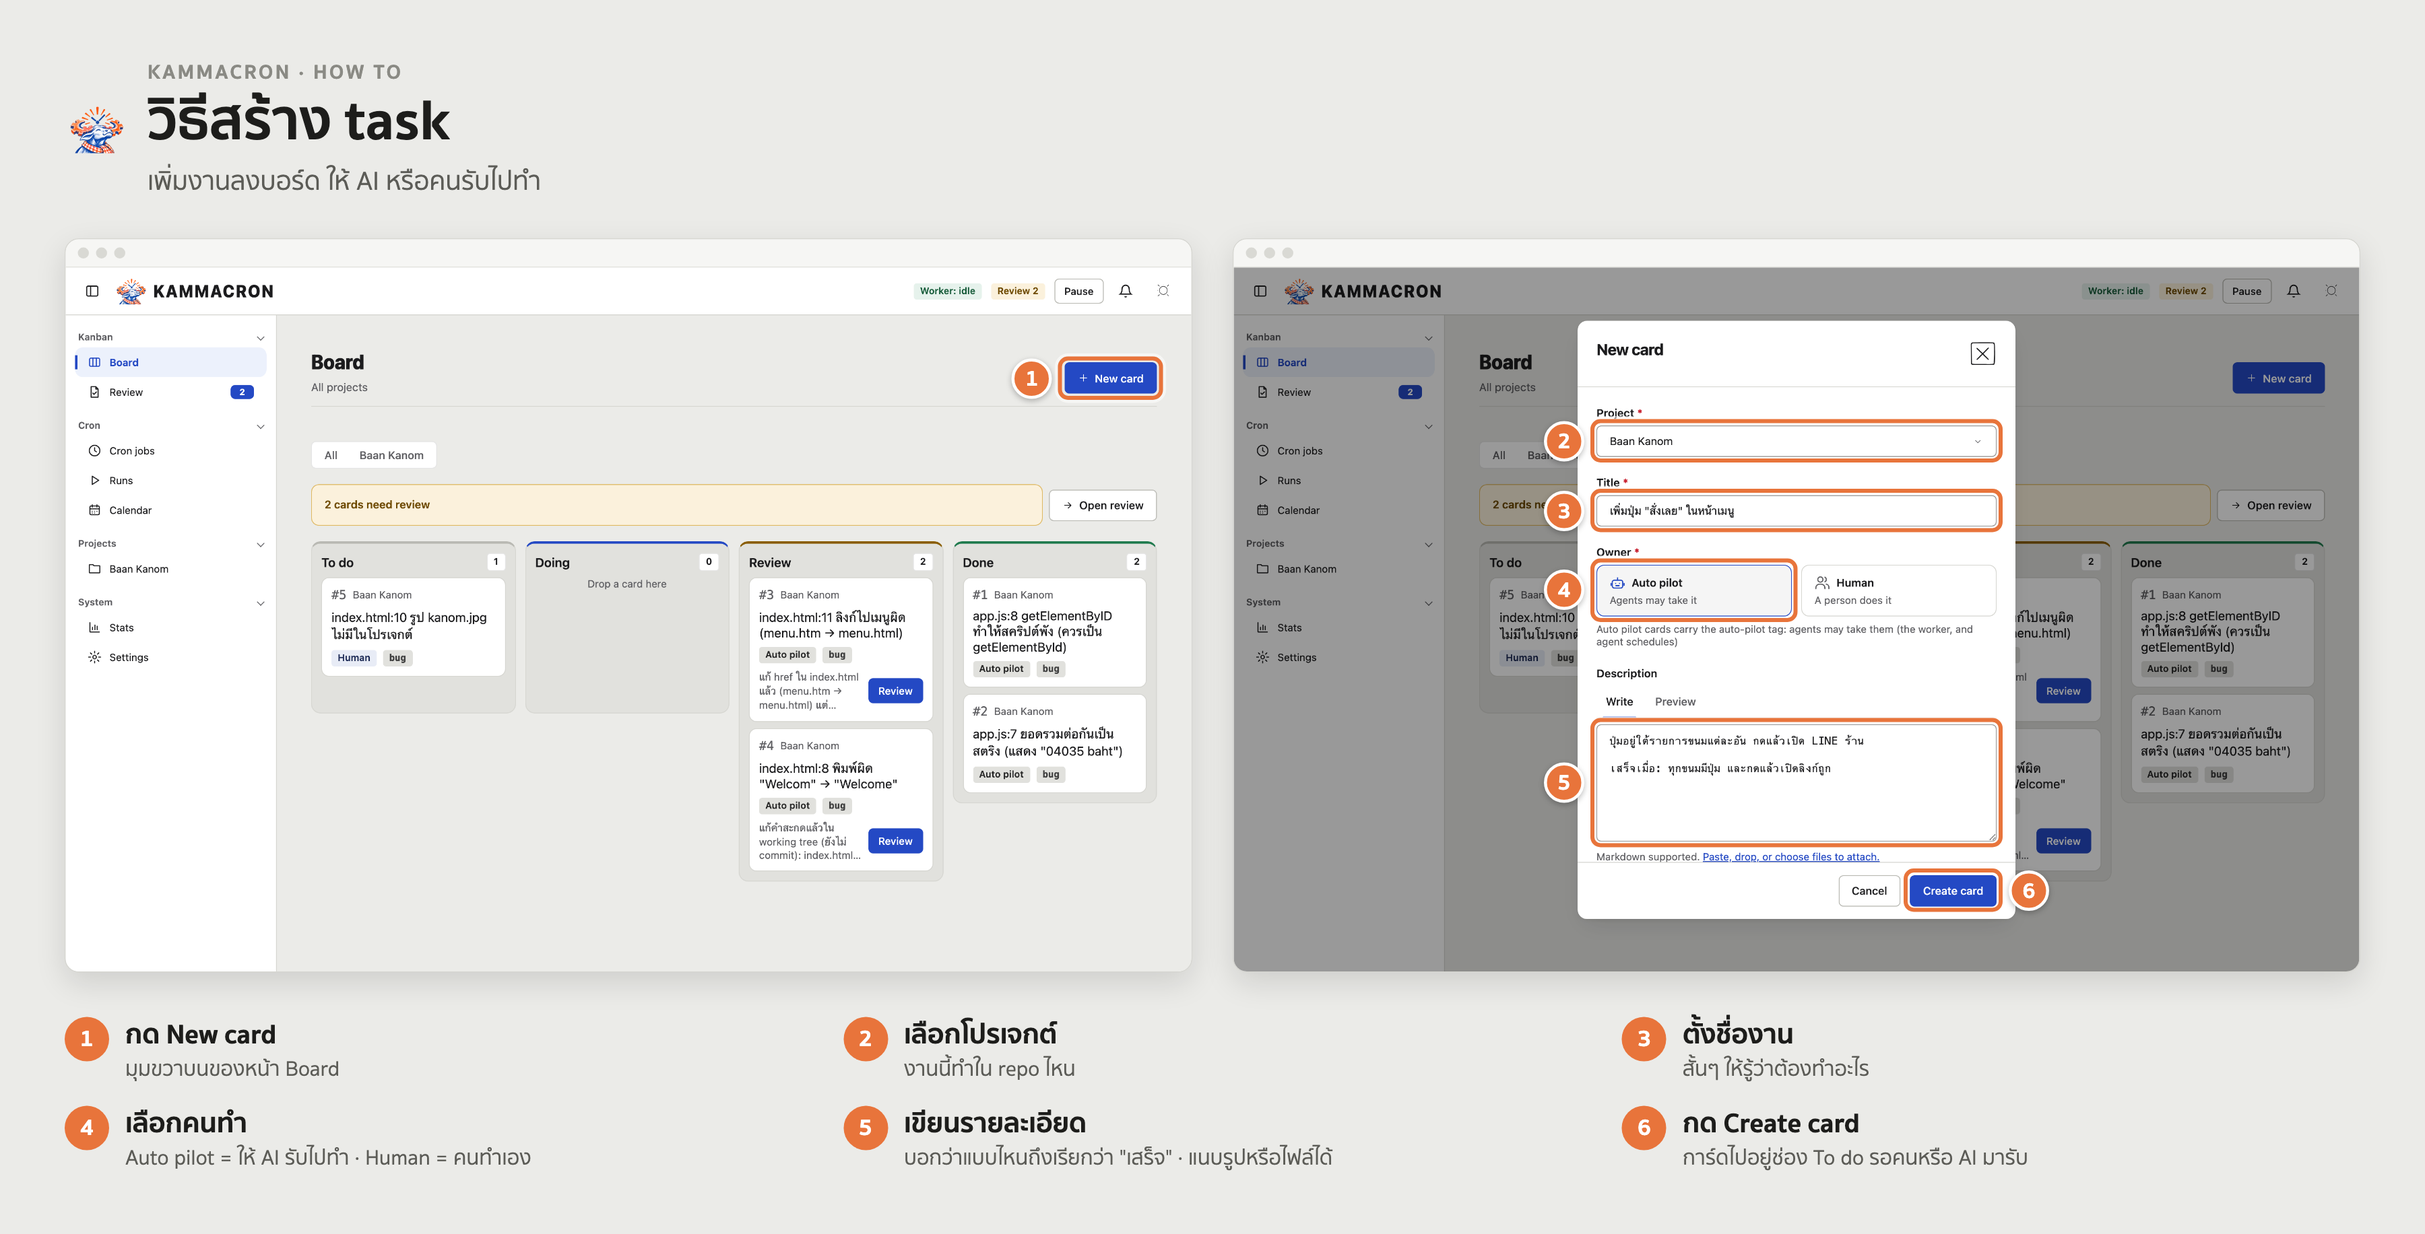
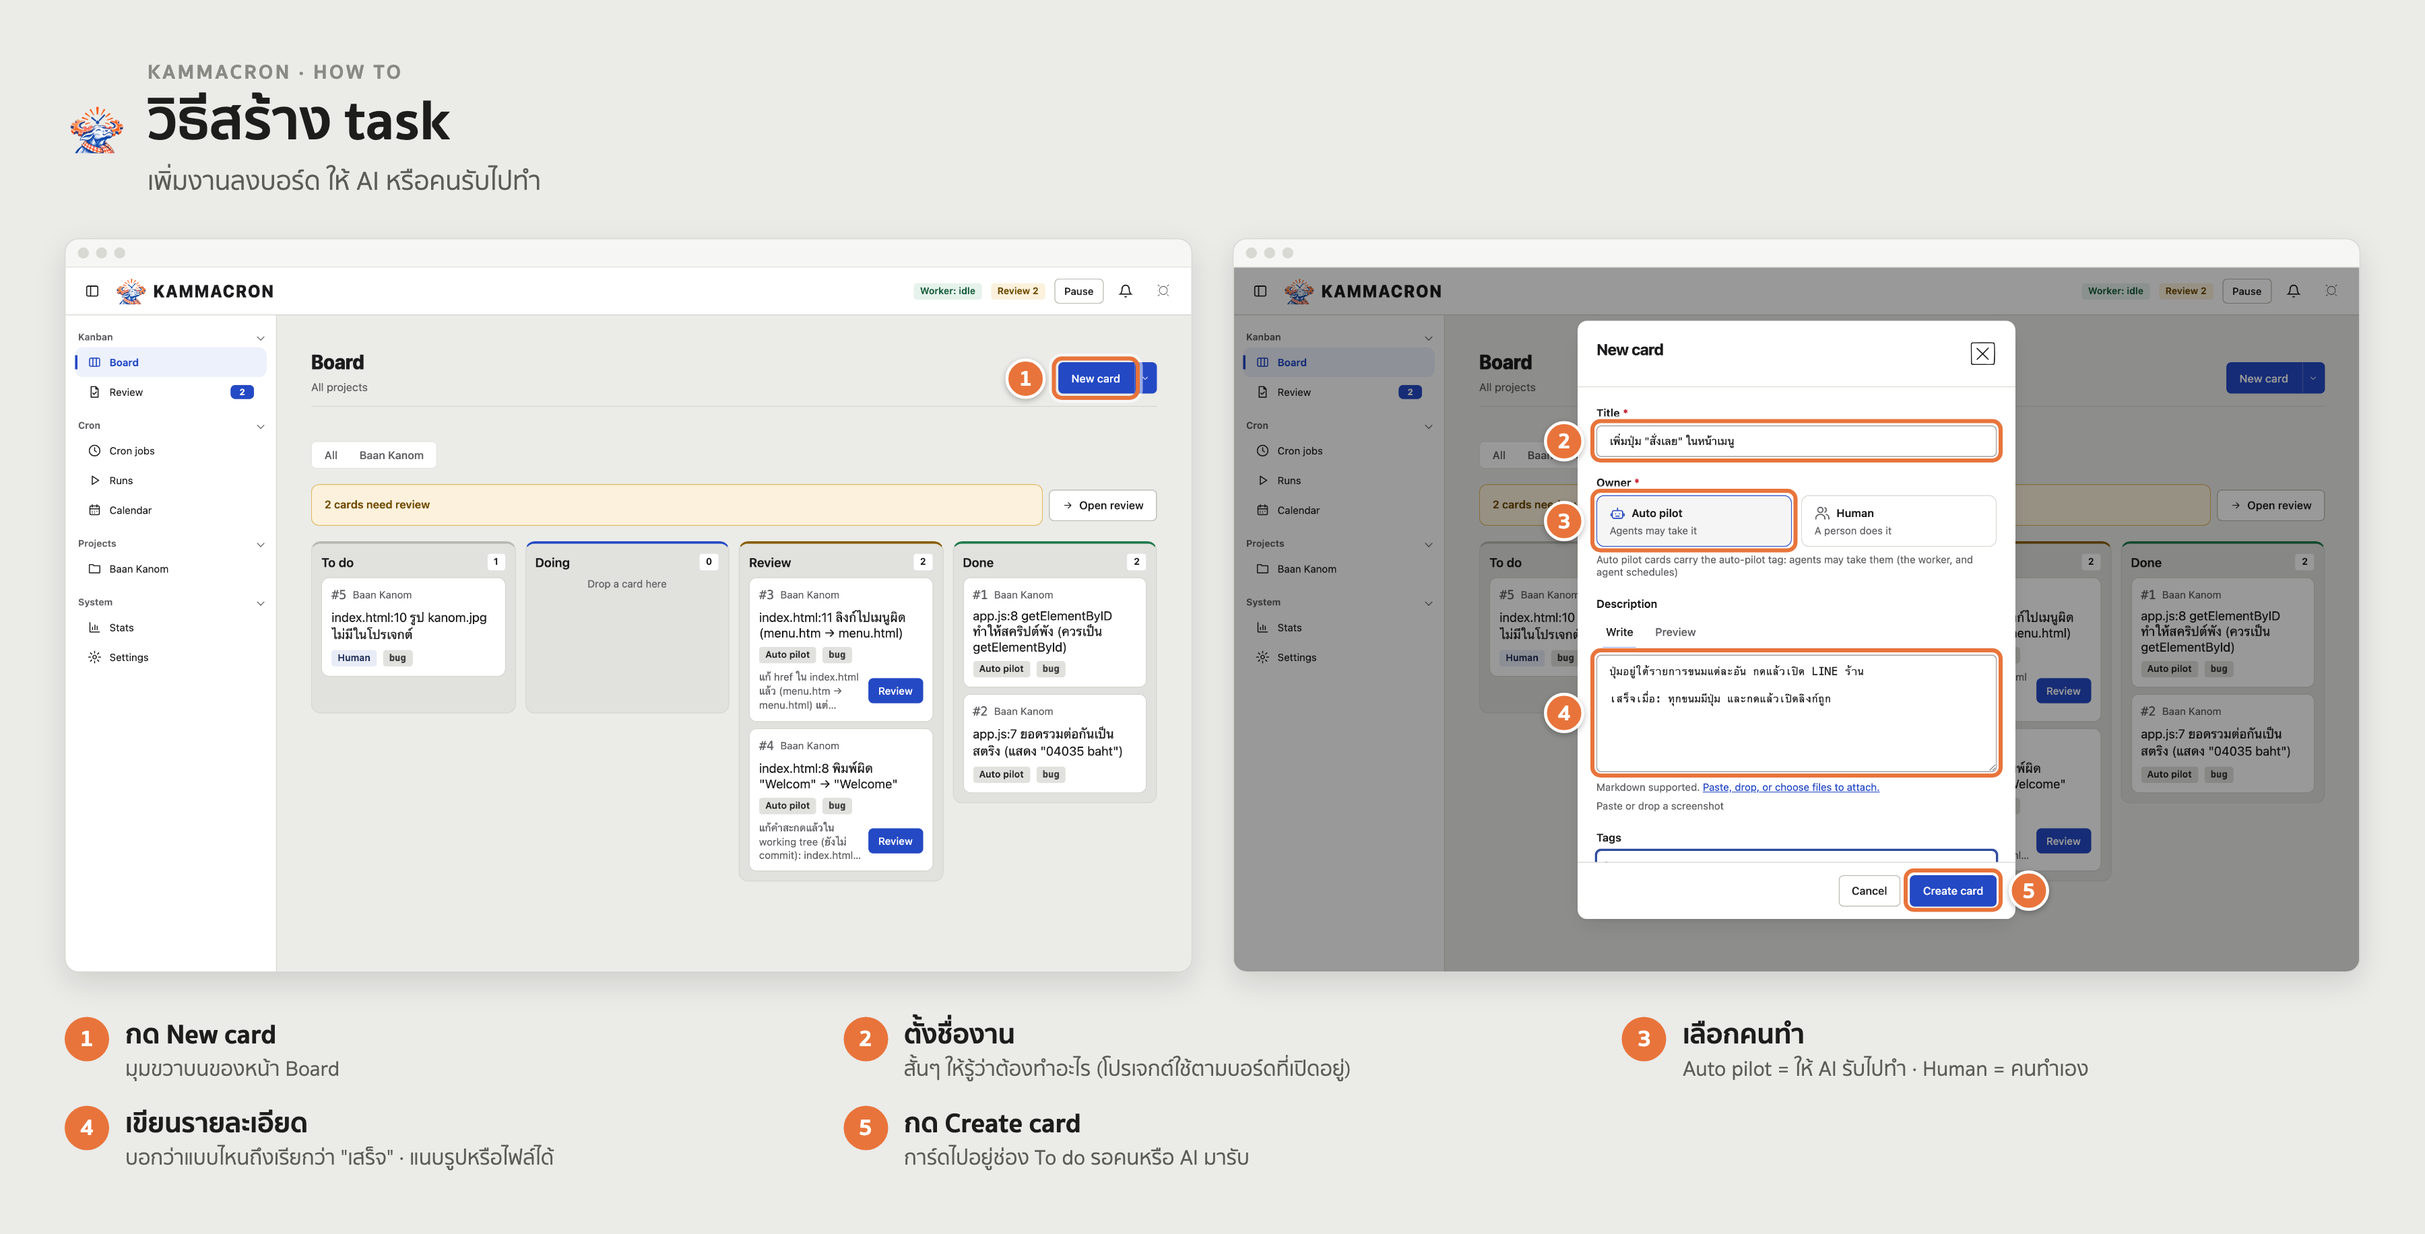
docs: the wizards in the guides, their library gaps, and the demo kit's cron scene
The guides and first steps describe New card ▾, the cron-job and project wizards
and the templates; the task and cron how-to pictures are retaken. LIB_GAP.md gets
four gaps met on baht-workflow and baht-alert, with their workarounds. The demo
video kit adds its cron jobs through the wizard (checked once against the demo
server, without the worker).

Claude-Session: https://claude.ai/code/session_01CUd5zYfdx4nTB7yqQbGrHG

diff --git a/.claude/skills/demo-video/kit/scripts/record.py b/.claude/skills/demo-video/kit/scripts/record.py
@@ -137,40 +137,45 @@ def scroll_bottom(page):
 
 
 def schedule_scene(b, name, job, first):
-    """The Cron jobs page: Claude, the Cron tab, `* * * * *`, a name, a model, the prompt, Add."""
+    """The Cron jobs page: Add cron job, then the wizard's three steps (who, the task, when)."""
     s = Scene(b, name)
     s.go('/cron')
     s.mark('start')
+    s.wait(900)
+    s.click(s.page.get_by_role('button', name='Add cron job'), 900)
+    wizard = s.page.locator('web-cron-wizard')
+    # step 1, What: Claude does it (no template: the prompt is the job's own)
+    s.click(wizard.locator('label', has=s.page.locator('input[value="claude"]')).first, 600)
+    s.click(wizard.get_by_role('button', name='Next'), 700)
+    # step 2, The task: the prompt; Use the Kanban board is on; the model under More options
+    s.mark('prompt')
+    s.type(field(wizard, 'prompt'), job['prompt'], delay=14)
+    s.wait(400)
+    s.move_to(s.page.get_by_text('Use the Kanban board', exact=True))
     s.wait(700)
-    # the "Add a cron job" card in view (the page scrolls inside the shell)
-    s.page.evaluate("""() => {
-      const h = [...document.querySelectorAll('*')].find(e => e.textContent.trim() === 'Add a cron job' && !e.children.length)
-      h.scrollIntoView({ block: 'start', behavior: 'smooth' })
-    }""")
-    s.wait(1100)
+    s.click(wizard.get_by_text('More options: model and agent'), 600)
+    s.click(wizard.locator('label', has=s.page.locator('input[value="haiku"]')).first, 600)
+    s.click(wizard.get_by_role('button', name='Next'), 700)
+    # step 3, When
     if first:
-        # the alarm-clock way, once: Tuesday and Thursday on, Monday off ("Runs on Tue and Thu")
+        # the alarm-clock way, once: Days and time, Tuesday and Thursday ("Runs on Tue and Thu")
+        s.click(schedule_card(s.page, 'date'), 600)
         for day in (2, 4, 1):
             s.click(day_chip(s.page, day), 600)
         s.wait(700)
     # every minute, for the demo (every few minutes stops at 5): the Cron card, typed in
     s.click(schedule_card(s.page, 'cron'), 700)
-    form = s.page.locator('baht-form').last
     s.mark('cron')
     # the five boxes, as a one-time code: empty them, then type; a space moves to the next box
     boxes = s.page.locator('baht-schedule baht-cron input')
     for i in range(5):
         boxes.nth(i).fill('')
     s.type(boxes.first, '* * * * *', delay=90)
-    s.type(field(form, 'name'), job['name'], delay=25)
-    # the Model cards: Haiku
-    s.click(form.locator('label', has=s.page.locator('input[value="haiku"]')).first, 500)
-    s.mark('prompt')
-    s.type(field(form, 'prompt'), job['prompt'], delay=14)
-    s.wait(400)
-    s.move_to(s.page.get_by_text('Use the Kanban board', exact=True))
-    s.wait(900)
-    s.click(s.page.get_by_role('button', name='Add cron job'), 600)
+    # the name the wizard filled in from the prompt, replaced by the job's
+    field(wizard, 'name').fill('')
+    s.type(field(wizard, 'name'), job['name'], delay=25)
+    s.wait(500)
+    s.click(wizard.get_by_role('button', name='Add cron job'), 600)
     s.mark('added')
     s.wait(1800)
     s.done()

diff --git a/apps/docs/src/content/docs/guides/schedules.md b/apps/docs/src/content/docs/guides/schedules.md
@@ -5,9 +5,15 @@ description: Claude or Codex with your own prompt, commands and playbooks on a t
 
 ## Cron jobs
 
-A cron job (a schedule) runs in the project's directory as it is, on its own time: the project's worker switch does not have to be on, only a directory set and the project not paused. Add one on the **Cron jobs** page (in the navigator, under Cron; with more than one project, pick it with the tabs at the top), or in a project's settings under **Schedules**. Pick what it **runs** and **when** on the cards at the top of the form, give it a name, and fill in the fields that appear.
+A cron job (a schedule) runs in the project's directory as it is, on its own time: the project's worker switch does not have to be on, only a directory set and the project not paused. Add one with **Add cron job** on the **Cron jobs** page (in the navigator, under Cron; with more than one project, pick it with the tabs at the top), with **New card ▾ → New cron job** on the board, or in a project's settings under **Schedules**. It takes three short steps:
 
-![How to add a cron job, in eight numbered steps: open Cron jobs, check the usage limits, pick what it runs, pick when, name it, pick the model, write the prompt, Add cron job](../../../assets/howto/2-cron.png)
+1. **What**: the project (asked only on the board's all-projects view), a template to start from, and **who does it**: Claude, Codex, a command or a playbook.
+2. **The task**: the prompt (with **Use the Kanban board**), the command, or the playbook. Claude's agent and the model are folded under **More options**; left folded, the agent's own defaults apply.
+3. **When**: the time, and a name, filled in from the template or the prompt's first line.
+
+The templates fill in a prompt and a time you can change on the next steps: **Find bugs every morning** (weekdays at 09:00, files a card for each bug and fixes nothing), **Fix cards one at a time** (every 30 minutes, takes one auto-pilot card), and **Update dependencies weekly** (Mondays at 10:00). **Start blank** leaves it to you.
+
+![How to add a cron job, in eight numbered steps: New card ▾ then New cron job, pick a template, pick who does it, check the prompt, the model under More options, pick when, the name, Add cron job](../../../assets/howto/2-cron.png)
 
 ### When
 
@@ -37,7 +43,7 @@ For example, tag cards `auto-pilot`, and add a cron job: **Codex**, **Hourly**, 
 
 The **Claude** and **Codex** cards show only when this machine has that CLI (on the worker's PATH, or `KAMMACRON_CLAUDE_BIN` / `KAMMACRON_CODEX_BIN`).
 
-**Agent** (Claude). When the project can call on Claude Code agents, pick one, and Claude runs as it: its instructions, its tools and its model, with your prompt as the task. kammacron finds them where Claude Code keeps them:
+**Agent** (Claude, under **More options**). When the project can call on Claude Code agents, pick one, and Claude runs as it: its instructions, its tools and its model, with your prompt as the task. kammacron finds them where Claude Code keeps them:
 
 | Where                                   | Shows as          |
 | --------------------------------------- | ----------------- |
@@ -47,7 +53,7 @@ The **Claude** and **Codex** cards show only when this machine has that CLI (on 
 
 A project's agent wins over one of yours with the same name. kammacron reads the agent's file each time and hands it to Claude (`--agents`, `--agent`), since Claude runs without the project's settings. An agent that names its `tools` keeps kammacron's MCP tools, so it can still reach the board. If the agent's file is gone when the job runs, the run fails and says so.
 
-**Model.** **Default** leaves it to the agent: Claude takes the agent's `model`, else the project's, else Claude Code's; Codex takes its own. Claude's list is the aliases for the newest of each family (Fable, Opus, Sonnet, Haiku); Codex's is what Codex lists for your account (read from `~/.codex/models_cache.json`, so it appears once Codex has run here). **Other…** takes any model's full name.
+**Model** (under **More options**). **Default** leaves it to the agent: Claude takes the agent's `model`, else the project's, else Claude Code's; Codex takes its own. Claude's list is the aliases for the newest of each family (Fable, Opus, Sonnet, Haiku); Codex's is what Codex lists for your account (read from `~/.codex/models_cache.json`, so it appears once Codex has run here). **Other…** takes any model's full name.
 
 **A command**, such as a health check (`curl -fsS --max-time 10 https://example.com/health`), tests or a backup. It passes on exit 0. When it fails, kammacron opens a card titled `<name> fails` with the output in a comment, and notifies you once (desktop or webhook; the output is not sent). While that card is open, later failures add a comment to it instead of opening another. The card is yours; to have agents work it, set the job's **Tags of that card** to `auto-pilot`. An agent reads the output as data, not as its task.
 

diff --git a/LIB_GAP.md b/LIB_GAP.md
@@ -1,10 +1,77 @@
 # Library gaps
 
 Verified against the published `@20baht/ui` and `@20baht/angular` **0.3.38**, with
-`@20baht/element` **0.1.1**, on 2026-11-27. Two gaps are open (a field type of the app's own
-cannot be named through `@20baht/ui`, and draws its own label; short segmented-nav items squeezed
-by a long one); the eleven after them are resolved, four of them in 0.3.38 (a `schedule` field
+`@20baht/element` **0.1.1**, on 2026-11-27. Six gaps are open: four met building the cron-job and
+project wizards on `<baht-workflow>` (a step's label is its rule key, a new definition starts the
+run over, starting data without a field is dropped, an alert has no place for an action), a field
+type of the app's own cannot be named through `@20baht/ui` and draws its own label, and short
+segmented-nav items are squeezed by a long one. The eleven after them are resolved, four of them in 0.3.38 (a `schedule` field
 type, `baht-cron`, the app shell's fold button, `clock` and `bot` icons).
+
+## Open: a workflow step's label is also the key its rules and data use
+
+Affected: `WorkflowDefinition`, `<baht-workflow>` (`show-steps`); owner: `@20baht/engine` /
+`@20baht/ui`.
+
+**What happens.** A step shows its `form_name` in the steps strip, and the same `form_name` is
+what a rule's `field: 'Form.key'` and the run's data (`{ [form_name]: {…} }`) are keyed by. A
+translated step label ("What", "เลือกงาน") therefore becomes the key: every rule, every read of
+the data and every test changes with the locale.
+
+**Fix wanted.** A display label of its own on `WorkflowForm` (`label`, falling back to
+`form_name`), so `form_name` can stay a stable key such as `what`.
+
+**Workaround.** `apps/web/src/app/shared/cron-wizard.ts` and `project-wizard.ts` build the forms,
+the rules and the reads of the data from the same `cronSteps(t)` / `projectSteps(t)` names, so they
+always agree in one locale; the specs use the English names.
+
+## Open: a new workflow definition starts the run over
+
+Affected: `<baht-workflow>` (`workflow` property); owner: `@20baht/ui`.
+
+**What happens.** Setting `workflow` resets the run to its first step and its starting data. A
+wizard whose choices depend on an earlier answer has to change a field's options mid-run: the
+cron-job wizard's Model and Agent cards come from the project picked on step 1
+(`GET /projects/:id/agents`). There is no way to change one field's options without a new
+definition, and a new definition loses what was typed. Angular also hands the element a new
+definition whenever a live list sends a new array of the same projects.
+
+**Fix wanted.** Keep the run (data, step, history) when a new definition still has its current
+step, as `restore()` does; or let a field's options change on their own (as `options_from` does for
+a dropdown, for radio cards too).
+
+**Workaround.** `CronWizardComponent` keeps `getState()` before it reads the other project's
+options and calls `restore()` once the new definition is in (`afterRenderEffect`); its definition
+`computed` compares by content (`equal: JSON.stringify`), so a live list's new arrays do not start
+the run over.
+
+## Open: a workflow drops starting data that no field has
+
+Affected: `<baht-workflow>` (`value`, `getData()`, `baht-submit`); owner: `@20baht/ui`.
+
+**What happens.** Data given in `value` for a key that no field of the form has (the project a job
+is for, when there is only one and no Project field is shown) is not in `getData()` or in the
+submitted data. There is no `hidden` field type to carry it.
+
+**Fix wanted.** Keep such keys in the run's data, or a `hidden` field type (no control, its value
+kept and submitted).
+
+**Workaround.** The wizards keep that context themselves: `CronWizardComponent` falls back to the
+project it read the options for (`chosen`).
+
+## Open: an alert has no place for an action
+
+Affected: `<baht-alert>`; owner: `@20baht/ui`.
+
+**What happens.** "Cron job added" wants a "See cron jobs" button inside the success alert;
+`<baht-alert>` has `heading`, `message` and `dismissible` only, and a child with
+`data-slot="actions"` is drawn outside it.
+
+**Fix wanted.** An actions slot at the end of the alert (as `<baht-card>` has), and perhaps an
+`action-label` with a `baht-action` event for the one-button case.
+
+**Workaround.** The board puts the button beside the alert in its `.banner` row, as its "cards need
+review" alert already does.
 
 ## Open: a field type of the app's own cannot be named through `@20baht/ui`, and draws its own label
 

diff --git a/apps/docs/src/content/docs/guides/board.md b/apps/docs/src/content/docs/guides/board.md
@@ -5,13 +5,13 @@ description: Cards, owners, tags, priorities and what a card waits on.
 
 ![The board of one project](../../../assets/board.png)
 
-The board has four columns: **To do**, **Doing**, **Review** and **Done**. It shows one project, or all of them together, and updates live as the worker moves cards. Drag a card to move it, or focus it and use **Alt+arrow keys**. **New card** opens the full form; the line at the bottom of **To do** adds a card by its title and Enter.
+The board has four columns: **To do**, **Doing**, **Review** and **Done**. It shows one project, or all of them together, and updates live as the worker moves cards. Drag a card to move it, or focus it and use **Alt+arrow keys**. **New card** opens the full form (it asks for the project only on the all-projects view); its **▾** also adds a [cron job](/guides/schedules/). The line at the bottom of **To do** adds a card by its title and Enter.
 
 The four columns stay side by side, sharing the width (on a phone they stack). For more room, fold the navigator away with the **‹** button by the logo; the browser remembers it.
 
 ## Add a card, step by step
 
-![How to add a card, in six numbered steps: New card, the project, a title, the owner (Auto pilot or Human), the description, Create card](../../../assets/howto/1-task.png)
+![How to add a card, in five numbered steps: New card, a title, the owner (Auto pilot or Human), the description, Create card](../../../assets/howto/1-task.png)
 
 ## What a card carries
 

diff --git a/.claude/skills/demo-video/SKILL.md b/.claude/skills/demo-video/SKILL.md
@@ -89,8 +89,11 @@ python3 "$SCRATCH/video/scripts/compose.py"                 # -> out/kammacron-c
 - Live pages keep an SSE stream open: wait for the `h1`, never `networkidle`.
 - The shell scrolls inside `.baht-shell-main` (`scroll="main"`), not the window: scroll that
   element (or `scrollIntoView`), never `window.scrollTo`.
-- The cron job form's Runs, Agent and Model are radio cards (the `input` is hidden: click its
-  `label`); When is the library's `<baht-schedule>` (its value is a cron string): day chips are
+- A cron job is added in a three-step wizard (`web-cron-wizard`, a `<baht-workflow>` in a modal):
+  **Add cron job** on `/cron`, then What (Who does it) → Next → The task (prompt; Model and Agent
+  only after the **More options** toggle) → Next → When and the name (filled in from the prompt's
+  first line: empty it before typing) → **Add cron job**. Its Who does it, Agent and Model are
+  radio cards (the `input` is hidden: click its `label`); When is the library's `<baht-schedule>` (its value is a cron string): day chips are
   buttons named after the day ("Tuesday"), the time an `input[type=time]`, the cards
   `label.baht-choice:has(input[value="cron"])`, then a `<baht-cron>` of five inputs (a space moves
   to the next box). `<baht-tabs>` buttons are `role=tab` with a `data-key`; `<baht-form>` controls
